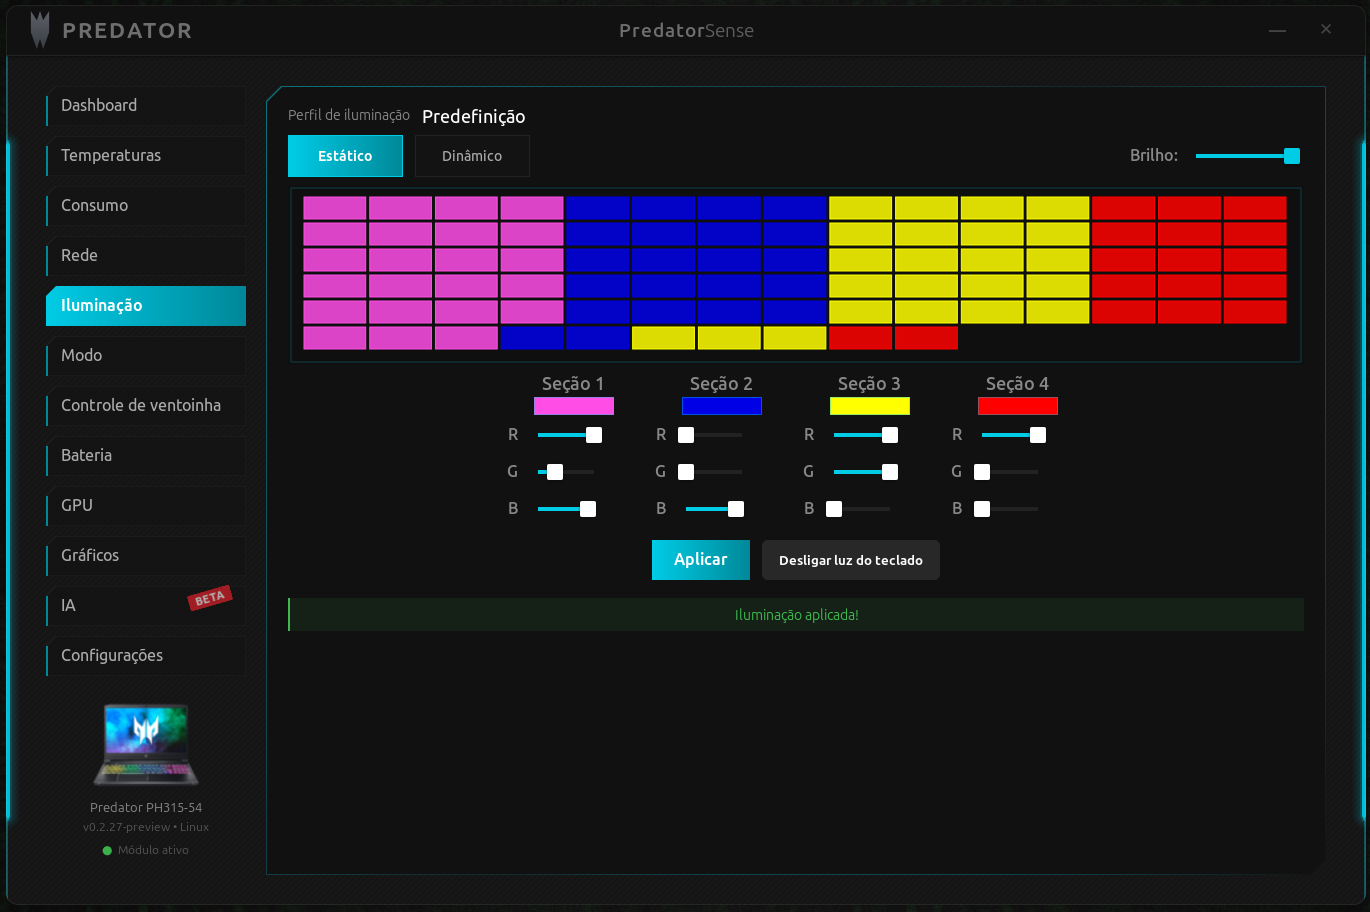
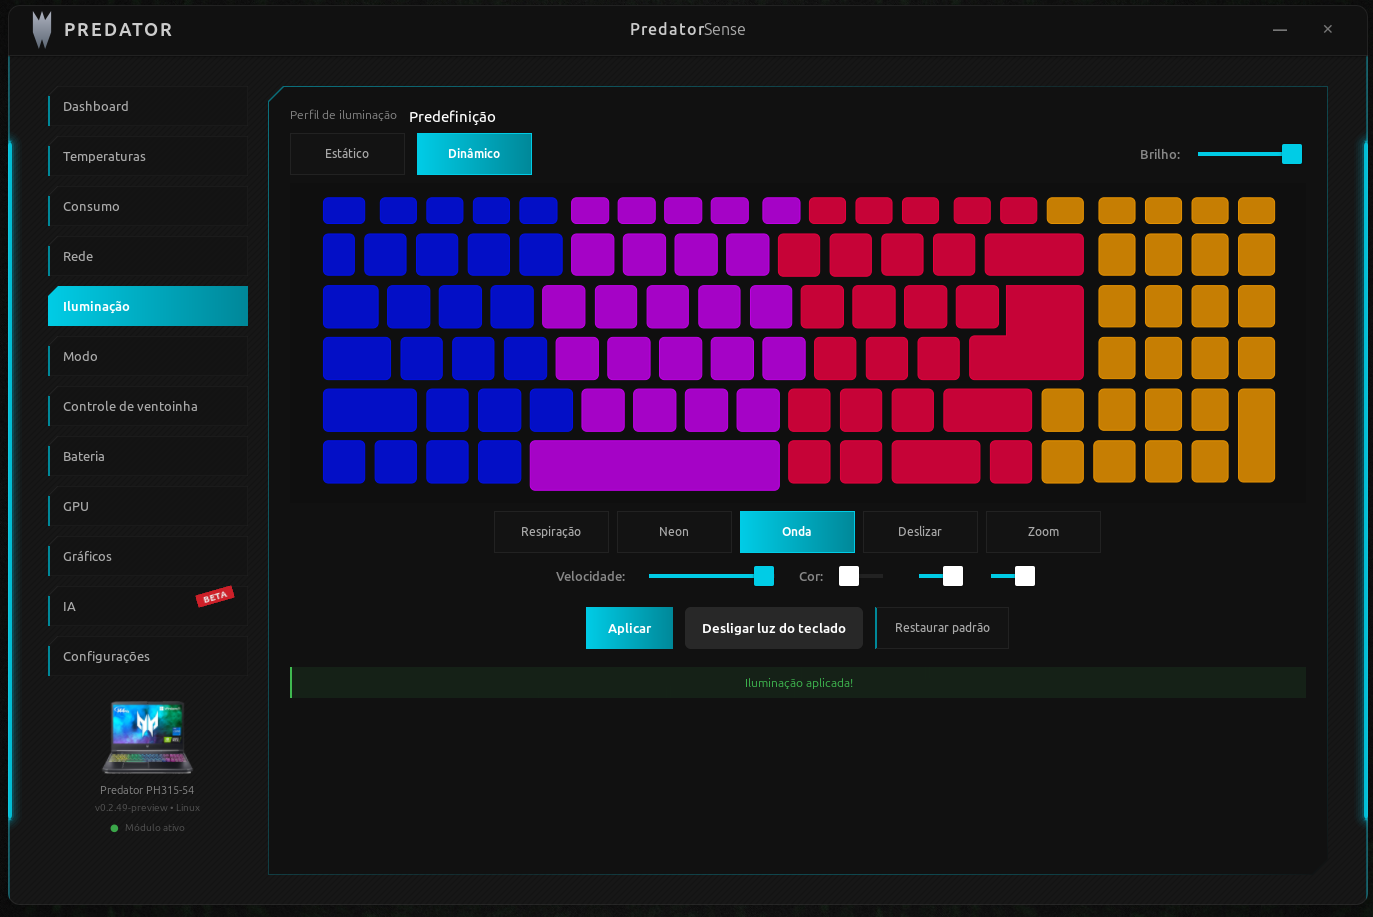
docs: update Compatibility table from real tester confirmations
Cross-referenced every open/closed issue and PR touching PHN16S-71,
PHN16-72 and PHN16-73 (issues #4, #12, #17, #21, #23, #24) and updated
the table cells that had real confirming evidence but were still
marked as untested:

- PHN16S-71: RGB (Tested) was still 🟡 despite the "RGB without the
  kernel module" table two sections below already crediting it with
  confirmed static color - now consistent, and the dynamic Breathing/
  Neon row (which said "awaiting confirmation") is updated too, that
  confirmation happened months ago (shwetankg07, issue #12).
- PHN16-72: Turbo, RGB, Fan RPM read and Fan profiles moved to ✅ from
  harry42203's direct confirmations in issue #23. Fan PWM % stays 🧪,
  nobody has specifically tested the percentage slider on this model.
- PHN16-73: every column now ✅, backed by three independent owners
  (papodesysadmin issue #4, jlucaso1 PR #21, TongkyakHermit issues
  #17/#24) confirming Turbo/profiles, static+dynamic RGB, cover logo,
  fan RPM/profiles and PWM % all working.

Also updates the keyboard-preview screenshot (psense-5.png) to the
real key-layout animation from the recent Lighting tab rewrite.

Signed by: Cleyton Alves
Co-authored by: Cleyton Alves <cleyton1986@gmail.com>

diff --git a/README-ptbr.md b/README-ptbr.md
@@ -149,9 +149,9 @@ Legenda: ✅ testado e funcionando · 🟡 implementado, não testado (precisa d
 | PH517-52 | ✅ | 🟡 | ✅ | 🟡 | 🟡 | - | ❌ |
 | PH517-61 | ✅ | 🟡 | ✅ | ✅ | 🟡 | - | ❌ |
 | PHN16-71 | ✅ | 🟡 | ✅ | 🟡 | 🟡 | - | ❌ |
-| PHN16S-71 | ✅ | ✅ | ✅ | 🟡 | ✅ | - | ❌ |
-| PHN16-72 | ✅ | 🟡 | ✅ | 🟡 | 🟡 | 🟡 | 🧪 |
-| **PHN16-73** | ✅ | 🟡 | ✅ | 🟡 | 🟡 | 🟡 | 🧪 |
+| PHN16S-71 | ✅ | ✅ | ✅ | ✅ | ✅ | - | ❌ |
+| PHN16-72 | ✅ | ✅ | ✅ | ✅ | ✅ | ✅ | 🧪 |
+| **PHN16-73** | ✅ | ✅ | ✅ | ✅ | ✅ | ✅ | ✅ |
 | PHN18-71 | ✅ | ✅ | ✅ | ✅ | 🟡 | - | ❌ |
 | PT314-51 | ❌ | ❌ | ✅ | ✅ | 🟡 | - | ❌ |
 | PT314-52s | ✅ | ✅ | ✅ | 🟡 | 🟡 | - | ❌ |
@@ -180,7 +180,7 @@ Alguns modelos (confirmado: PHN16S-71, PHN16-73) roteiam o controlador RGB do te
 | Recurso | Status |
 |---|---|
 | Cor estática por zona, brilho, desligar luz | ✅ confirmado funcionando (PHN16S-71) |
-| Efeitos dinâmicos — Respiração, Neon 🧪 | Nativo, um único write HID, hardware faz o loop do padrão sozinho — **aguardando confirmação** em hardware real |
+| Efeitos dinâmicos — Respiração, Neon | ✅ confirmado funcionando (PHN16S-71) — nativo, um único write HID, hardware faz o loop do padrão sozinho. Nesta unidade, Respiração ignora a cor escolhida e cicla o arco-íris sozinho; pode variar em outro hardware |
 | Efeitos dinâmicos — Onda, Deslizar, Zoom | Só prévia visual na tela (sem escrita em hardware) — os códigos desses efeitos variam de significado entre gerações de hardware, então ainda não foram ativados |
 | Logo RGB da tampa — desligar, cor estática, brilho, Respiração, Neon | ✅ confirmado funcionando (PHN16-73) |
 

diff --git a/README.md b/README.md
@@ -149,9 +149,9 @@ Legend: ✅ tested & working · 🟡 implemented, not tested (needs a tester) ·
 | PH517-52 | ✅ | 🟡 | ✅ | 🟡 | 🟡 | - | ❌ |
 | PH517-61 | ✅ | 🟡 | ✅ | ✅ | 🟡 | - | ❌ |
 | PHN16-71 | ✅ | 🟡 | ✅ | 🟡 | 🟡 | - | ❌ |
-| PHN16S-71 | ✅ | ✅ | ✅ | 🟡 | ✅ | - | ❌ |
-| PHN16-72 | ✅ | 🟡 | ✅ | 🟡 | 🟡 | 🟡 | 🧪 |
-| **PHN16-73** | ✅ | 🟡 | ✅ | 🟡 | 🟡 | 🟡 | 🧪 |
+| PHN16S-71 | ✅ | ✅ | ✅ | ✅ | ✅ | - | ❌ |
+| PHN16-72 | ✅ | ✅ | ✅ | ✅ | ✅ | ✅ | 🧪 |
+| **PHN16-73** | ✅ | ✅ | ✅ | ✅ | ✅ | ✅ | ✅ |
 | PHN18-71 | ✅ | ✅ | ✅ | ✅ | 🟡 | - | ❌ |
 | PT314-51 | ❌ | ❌ | ✅ | ✅ | 🟡 | - | ❌ |
 | PT314-52s | ✅ | ✅ | ✅ | 🟡 | 🟡 | - | ❌ |
@@ -180,7 +180,7 @@ Some models (confirmed: PHN16S-71, PHN16-73) route the keyboard's RGB controller
 | Feature | Status |
 |---|---|
 | Static per-zone color, brightness, backlight-off | ✅ confirmed working (PHN16S-71) |
-| Dynamic effects — Breathing, Neon 🧪 | Native, single HID write, hardware loops the pattern on its own — **awaiting confirmation** on real hardware |
+| Dynamic effects — Breathing, Neon | ✅ confirmed working (PHN16S-71) — native, single HID write, hardware loops the pattern on its own. On this unit Breathing ignores the picked color and rainbow-cycles instead; may vary on other hardware |
 | Dynamic effects — Wave, Shifting, Zoom | On-screen preview only (no hardware writes) — the effect codes for these were found to mean different things across hardware generations, so they're not wired up yet |
 | RGB cover logo — off, solid color, brightness, Breathing, Neon | ✅ confirmed working (PHN16-73) |
 
